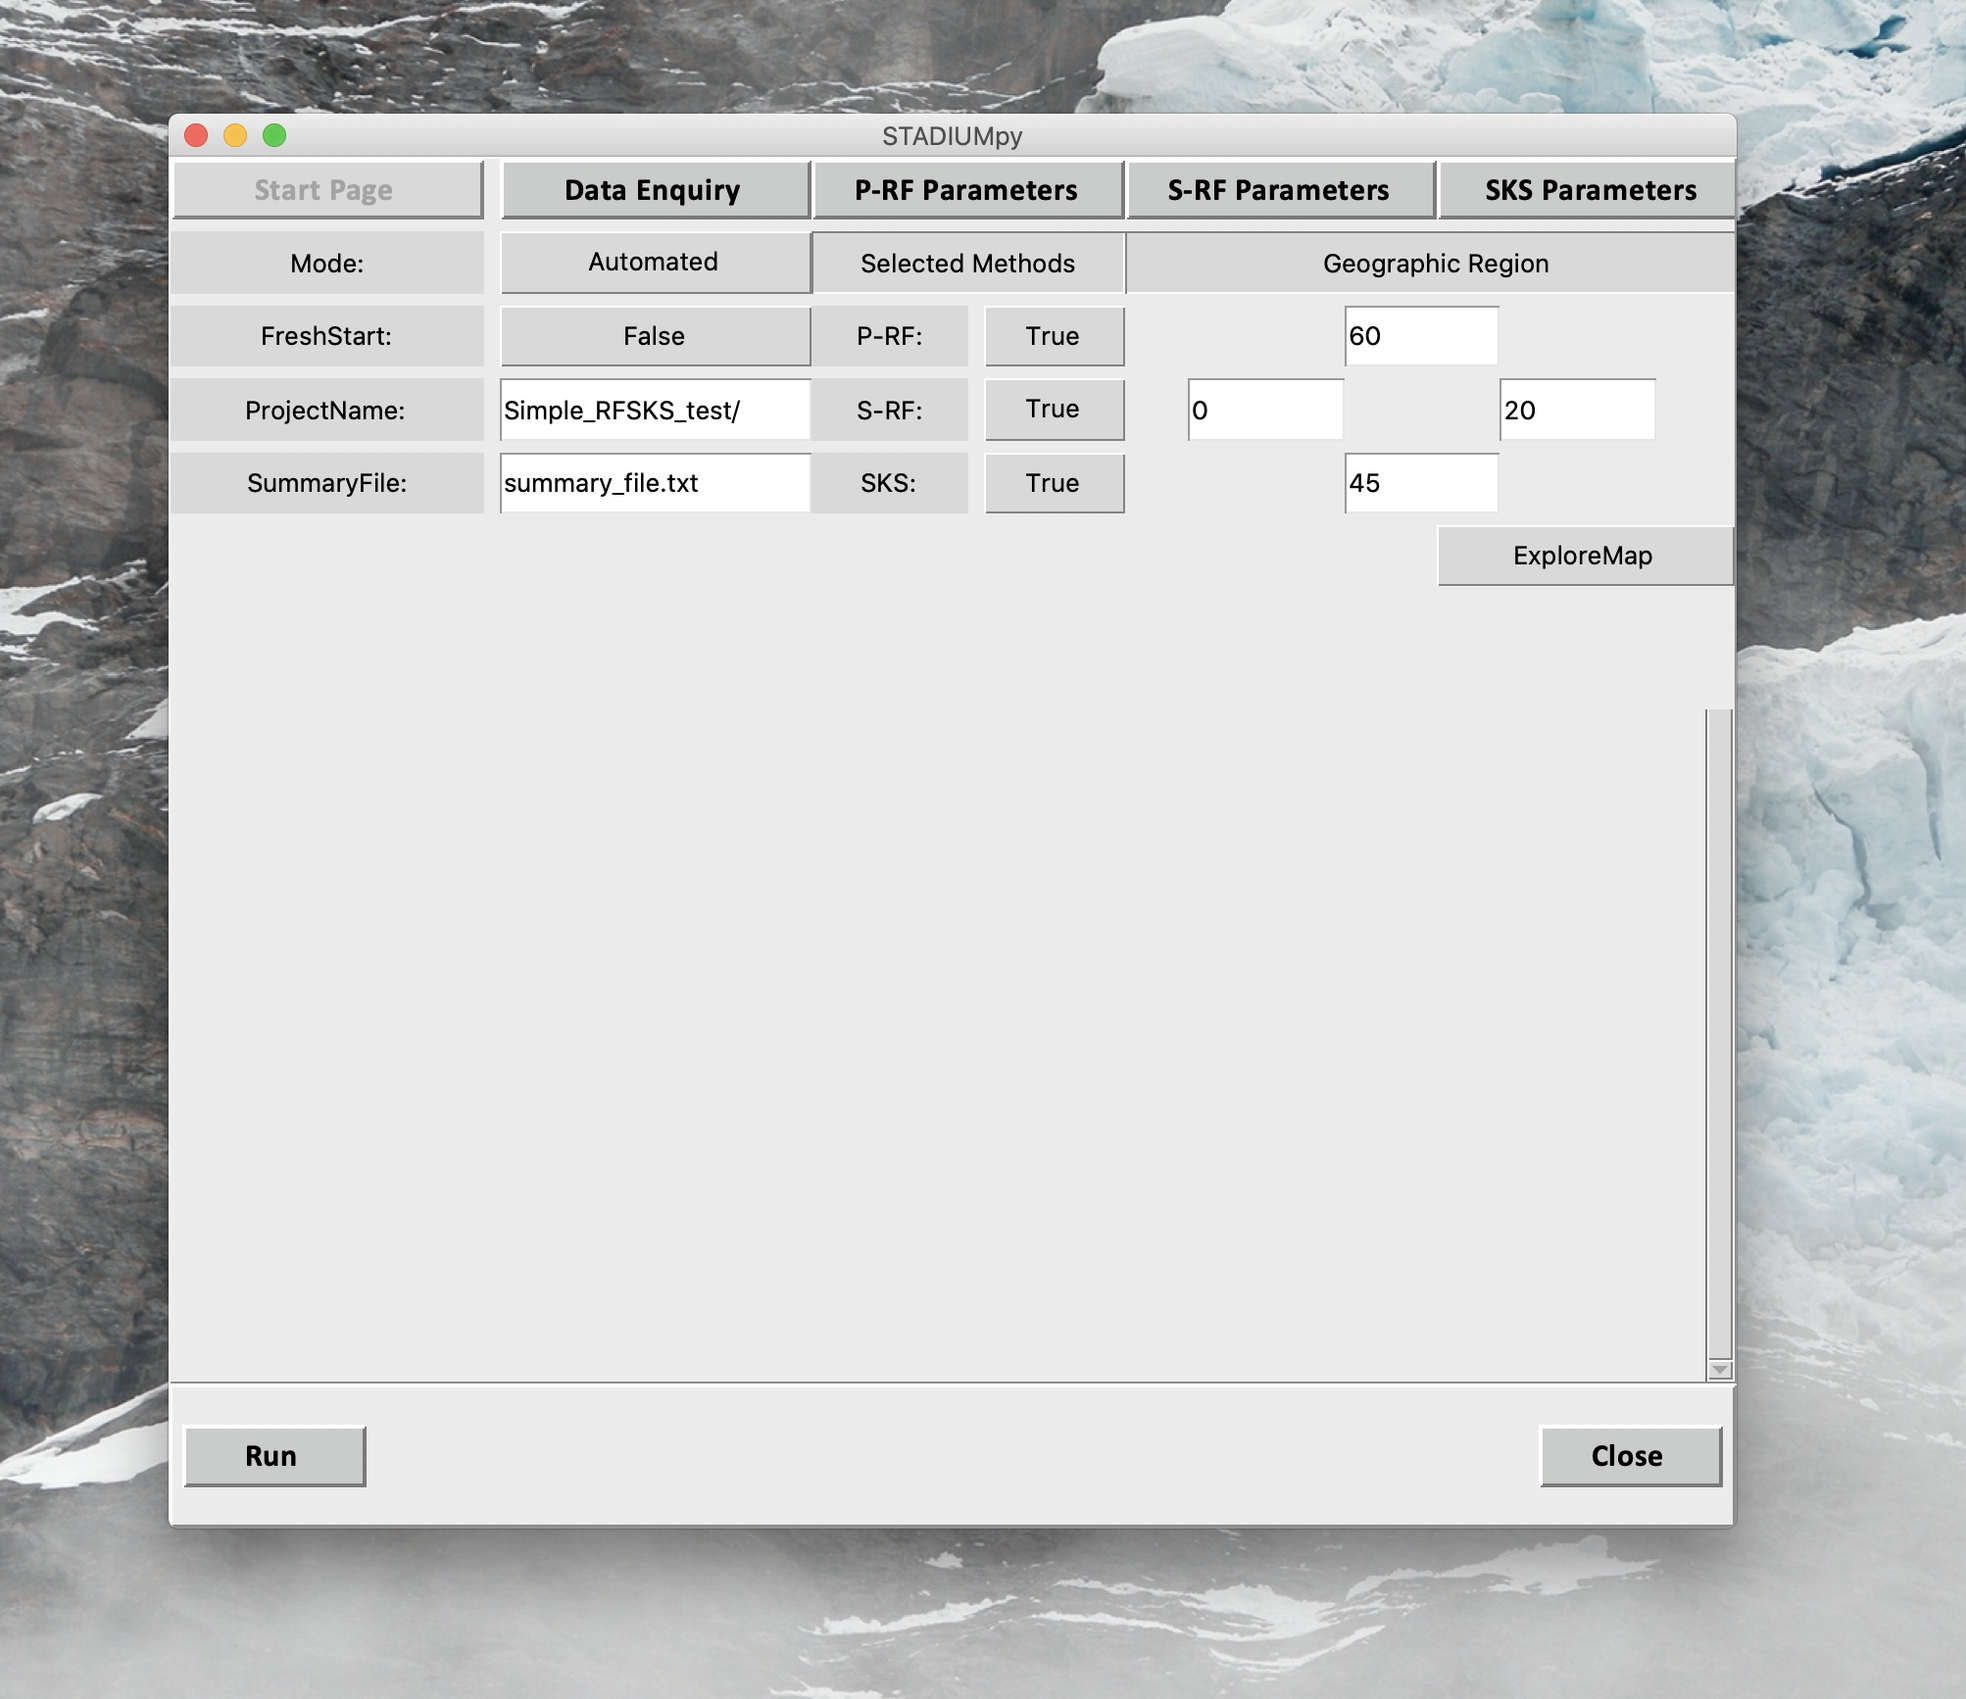
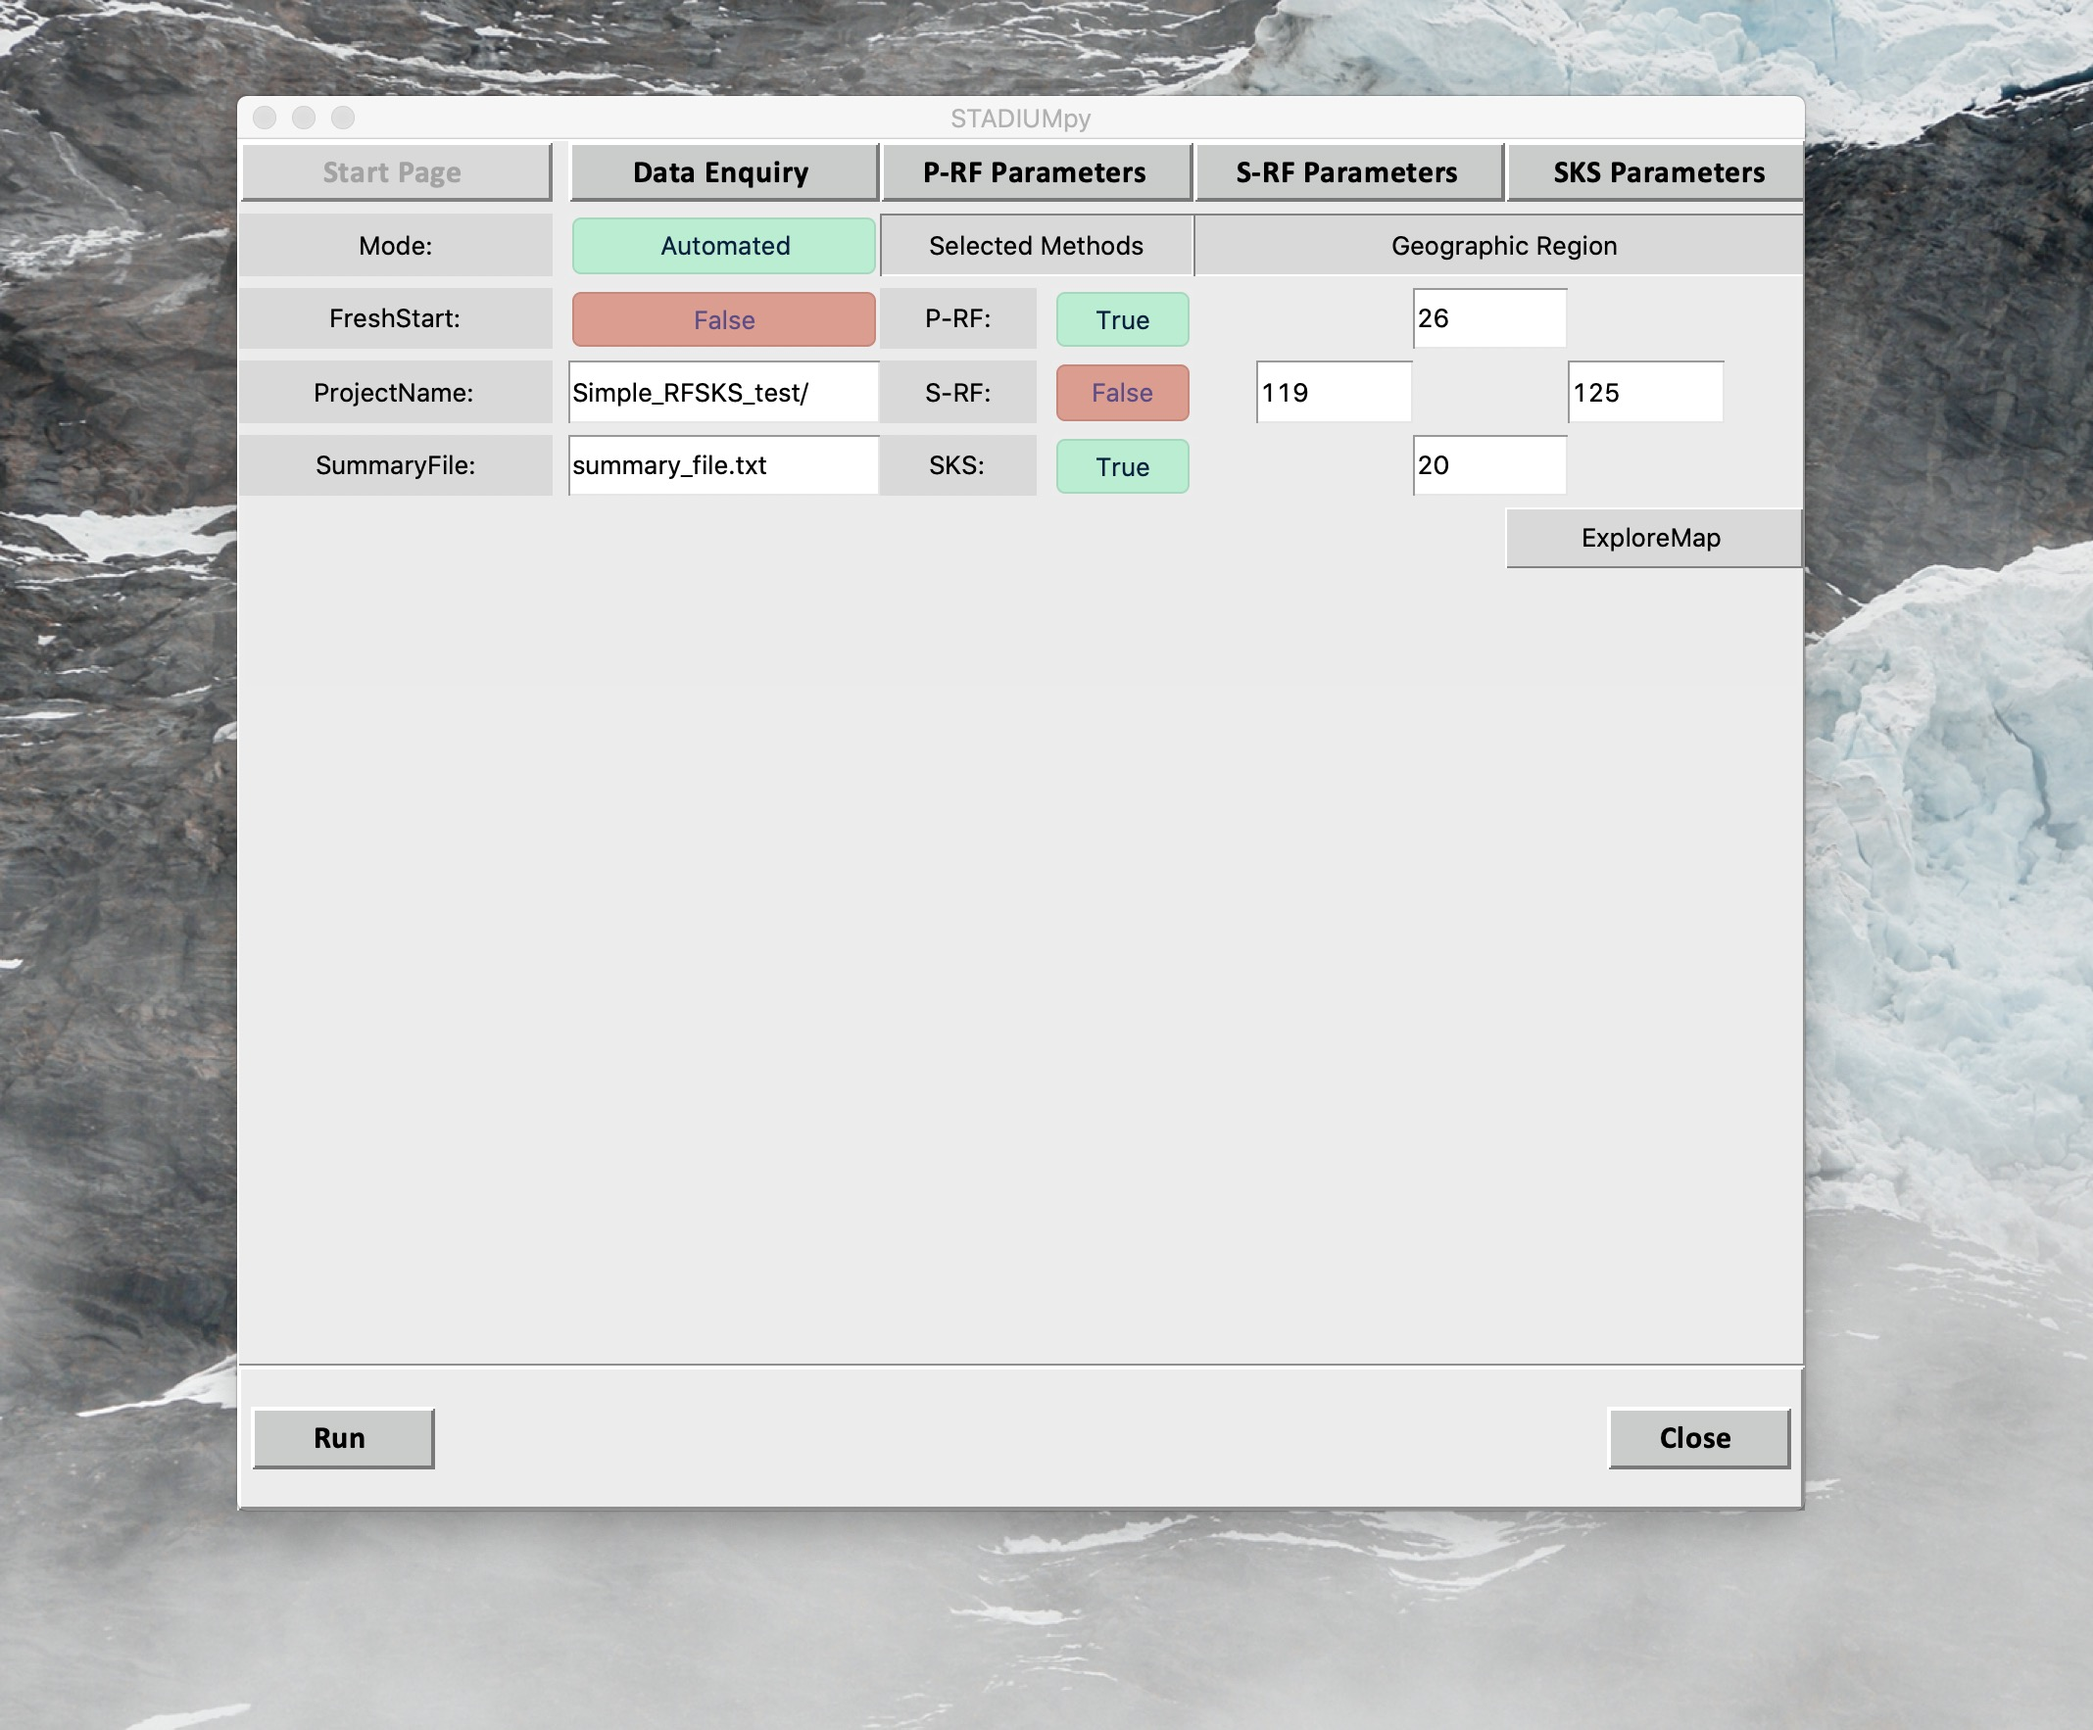
true false button color

diff --git a/stadiumpy/startpage.py b/stadiumpy/startpage.py
@@ -10,7 +10,7 @@ from stadiumpy.plot_map_gui import plotMap
 import os
 # from stadiumpy_gui import mapImage
 
-
+from tkmacosx import Button
 
 def startview(self, ttk, parent, controller, StartPage, PageDataEnquiry, PagePRF, PageSRF, PageSKS, PageGeoRegion, inp, image_name):
     
@@ -52,23 +52,43 @@ def startview(self, ttk, parent, controller, StartPage, PageDataEnquiry, PagePRF
                         command=lambda: controller.show_frame(PageSKS))
     button2.place(relx=RELXS[4], rely=RELY, relheight=RELHEIGHT, relwidth=RELWIDTH)
 
+    button_options_red = {'bg':'#E69A8D', 
+                "fg":'#5F4B8B', 
+                "borderless":1,
+                'activebackground':('#AE0E36', '#D32E5E')
+                }
+    button_options_green = {
+                "bg":'#ADEFD1', 
+                "fg":'#00203F', 
+                "borderless":1,
+                'activebackground':('#AE0E36', '#D32E5E')
+                }
 
     RELY0 = RELY
     ## Mode
     def toggle_mode():
-        # print(button_mode['text'])
         if button_mode['text'] == 'Automated':
-            button_mode['text'] ='Stepwise'
+            dictAdd = {'text':'Stepwise', 'bg':'#E69A8D', 'fg': '#5F4B8B'}
+            for key, value in dictAdd.items():
+                button_mode[key]=value
         else:
-            button_mode['text'] = 'Automated'
+            dictAdd = {'text':'Automated', 'bg':'#ADEFD1', 'fg': '#00203F'}
+            for key, value in dictAdd.items():
+                button_mode[key]=value
 
     lbl1 = ttk.Label(self, text="Mode:")
     lbl1.configure(anchor="center")
     RELY += RELHEIGHT+0.01 
     lbl1.place(relx=RELXS[0], rely=RELY, relheight=RELHEIGHT, relwidth=RELWIDTH)
 
-    stad_mode = "Automated"
-    button_mode = ttk.Button(self, text=stad_mode, command=toggle_mode)
+    if inp['mode']=="Automated":
+        stad_mode = "Automated"
+        button_options = button_options_green
+    else:
+        stad_mode = "Stepwise"
+        button_options = button_options_red
+
+    button_mode = Button(self, text=stad_mode, command=toggle_mode, **button_options)
 
     button_mode.place(relx=RELXS[1], rely=RELY, relheight=RELHEIGHT, relwidth=RELWIDTH)
 
@@ -82,12 +102,31 @@ def startview(self, ttk, parent, controller, StartPage, PageDataEnquiry, PagePRF
 
     if not inp['fresh_start']:
         frsttext = "False"
+        button_options = button_options_red
     else:
         frsttext = "True"
+        button_options = button_options_green
     
-    button_freshstart = ttk.Button(self, text=frsttext,command=lambda: toggle_button(button_freshstart))
+
+
+    button_freshstart = Button(self, 
+            text=frsttext,
+            command=lambda: toggle_button(button_freshstart),
+            **button_options
+            )
+    # button_freshstart = ttk.Button(self, text=frsttext,command=lambda: toggle_button(button_freshstart))
+
     button_freshstart.place(relx=RELXS[1], rely=RELY, relheight=RELHEIGHT, relwidth=RELWIDTH)
-    # button_freshstart.place(relx=RELXS[3]+2*(RELXS[3]-RELXS[2])/2+drelx, rely=RELY, relheight=RELHEIGHT, relwidth=RELWIDTH/2-drelx)
+
+    def toggle_button(button_freshstart):
+        if button_freshstart['text'] == 'True':
+            dictAdd = {'text':'False', 'bg':'#E69A8D', 'fg': '#5F4B8B'}
+            for key, value in dictAdd.items():
+                button_freshstart[key]=value
+        else:
+            dictAdd = {'text':'True', 'bg':'#ADEFD1', 'fg': '#00203F'}
+            for key, value in dictAdd.items():
+                button_freshstart[key]=value
 
 
     ## Project name
@@ -112,12 +151,6 @@ def startview(self, ttk, parent, controller, StartPage, PageDataEnquiry, PagePRF
     entry1.insert(0,inp['summary_file'])
 
 
-    def toggle_button(button_freshstart):
-        
-        if button_freshstart['text'] == 'True':
-            button_freshstart['text']='False'
-        else:
-            button_freshstart['text']='True'
 
 
     RELY = RELY0
@@ -136,10 +169,16 @@ def startview(self, ttk, parent, controller, StartPage, PageDataEnquiry, PagePRF
     
     if not inp['makeRF']:
         makeRFtext = "False"
+        button_options = button_options_red
     else:
         makeRFtext = "True"
+        button_options = button_options_green
 
-    button_makerf = ttk.Button(self, text=makeRFtext, command=lambda: toggle_button(button_makerf))
+    button_makerf = Button(self, 
+        text=makeRFtext, 
+        command=lambda: toggle_button(button_makerf),
+        **button_options
+        )
     button_makerf.place(relx=RELXS[2]+(RELXS[2]-RELXS[1])/2+drelx, rely=RELY, relheight=RELHEIGHT, relwidth=RELWIDTH/2-drelx)
 
     # makeRF-S
@@ -150,10 +189,17 @@ def startview(self, ttk, parent, controller, StartPage, PageDataEnquiry, PagePRF
 
     if not inp['makeSRF']:
         makeSRFtext = "False"
+        button_options = button_options_red
     else:
         makeSRFtext = "True"
+        button_options = button_options_green
     
-    button_makesrf = ttk.Button(self, text=makeSRFtext, command=lambda: toggle_button(button_makesrf))
+    button_makesrf = Button(self, 
+        text=makeSRFtext, 
+        command=lambda: toggle_button(button_makesrf),
+        **button_options
+        )
+    # button_makesrf = ttk.Button(self, text=makeSRFtext, command=lambda: toggle_button(button_makesrf))
     button_makesrf.place(relx=RELXS[2]+(RELXS[3]-RELXS[2])/2+drelx, rely=RELY, relheight=RELHEIGHT, relwidth=RELWIDTH/2-drelx)
 
 
@@ -165,11 +211,17 @@ def startview(self, ttk, parent, controller, StartPage, PageDataEnquiry, PagePRF
 
     if not inp['makeSKS']:
         makeSKStext = "False"
+        button_options = button_options_red
     else:
         makeSKStext = "True"
+        button_options = button_options_green
 
 
-    button_makesks = ttk.Button(self, text=makeSKStext, command=lambda: toggle_button(button_makesks))
+    button_makesks = Button(self, 
+        text=makeSKStext, 
+        command=lambda: toggle_button(button_makesks),
+        **button_options
+        )
     button_makesks.place(relx=RELXS[2]+(RELXS[3]-RELXS[2])/2+drelx, rely=RELY, relheight=RELHEIGHT, relwidth=RELWIDTH/2-drelx)
 
     #Geographic Region

diff --git a/stadiumpy/stadiumpy_gui.py b/stadiumpy/stadiumpy_gui.py
@@ -77,7 +77,7 @@ class stadiumpy(tk.Tk):
 
             self.frames[F] = frame
             frame.grid(row=0, column=0, sticky="nsew")
-            
+
         self.show_frame(StartPage)
 
 
@@ -141,9 +141,6 @@ class PageGeoRegion(tk.Frame):
 
     def __init__(self, parent, controller):
         tk.Frame.__init__(self, parent)
-        # image_name = "region-plot.png"
-        # Tk.update(self)
-        # sksview(self, ttk, controller, StartPage, PageDataEnquiry, PagePRF, PageSRF, PageSKS, inp)
         plotMap(self, controller, StartPage, PageDataEnquiry, PagePRF, PageSRF, PageSKS, inp, image_name)
         
 
